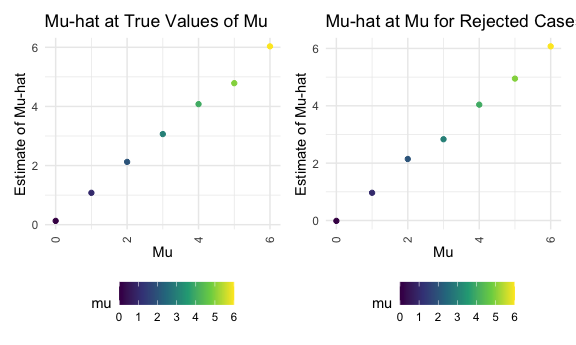
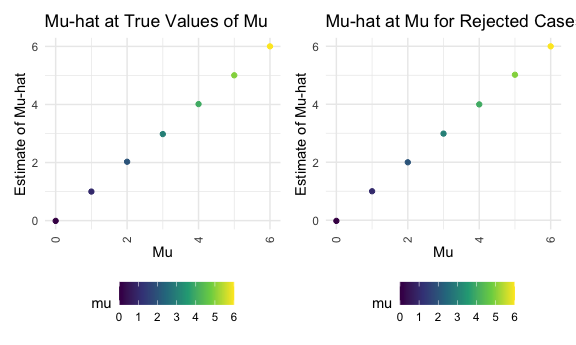
Iterations 50-->5000

diff --git a/p8105_hw5_ag2965.md b/p8105_hw5_ag2965.md
@@ -450,7 +450,7 @@ t_test_clean = function(df){
 
 generate_results = function(mu = 0,
                             sigma = 5,
-                            n_iter = 50,
+                            n_iter = 5000,
                             n_obs = 30){
 
 new_list = list()
@@ -496,7 +496,7 @@ generate_results()
     ## # A tibble: 1 × 4
     ##     tot tot_rej prop_rej avg_mu_hat
     ##   <int>   <int>    <dbl>      <dbl>
-    ## 1    50       4     0.08    -0.0800
+    ## 1  5000     249   0.0498    0.00882
 
 ``` r
 new_tib =
@@ -557,7 +557,7 @@ t_test_clean = function(df){
 
 generate_results_rej = function(mu = 0,
                             sigma = 5,
-                            n_iter = 50,
+                            n_iter = 5000,
                             n_obs = 30){
 
 new_list_rej = list()
